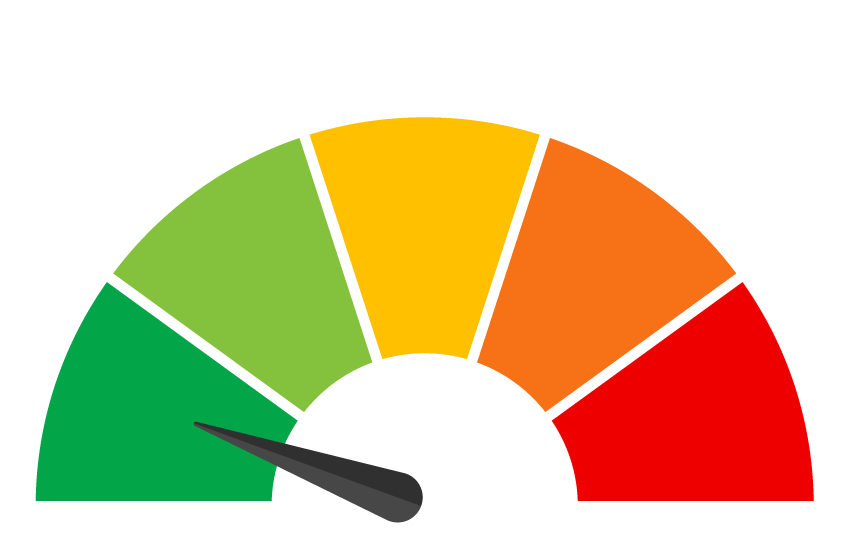
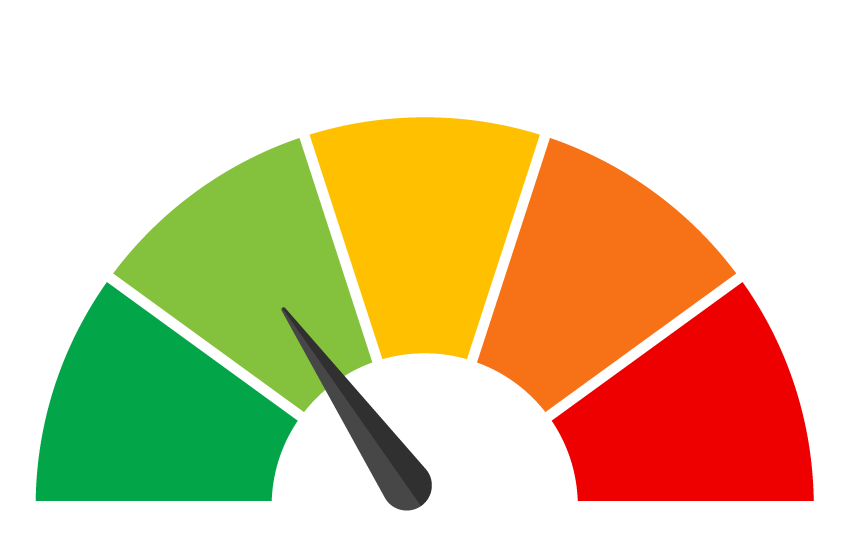
Adecuacion de semaforo de desempeño

Changed region(s): [[0.2188, 0.5543, 0.5, 0.9547]]

diff --git a/resources/views/productosSectoriales/admin_productos_sectoriales.blade.php b/resources/views/productosSectoriales/admin_productos_sectoriales.blade.php
@@ -1,3 +1,6 @@
+@php
+    use App\Models\SeguimientoMeta;
+@endphp
 @extends('layouts.administrador')
 @section('encabezado')
     Productos Sectoriales / Listado de Productos
@@ -170,12 +173,45 @@
                             <!-- Acciones futuras -->
                         </div>
                     </div>
-                    <!-- Card Body -->
+                    <!-- Card Body -->                    
                     <div class="card-body" id="indicadorContent">
                         <div style="text-align: right; padding:10px;">
                             <a href="{{ route('productossectoriales.detalleExelPS') }}"><button class="btn btn-success"><i
                                         class="fas fa-download"></i> Descargar Listado</button></a>
-                        </div>
+                            <div style="text-align:right;">
+                                <hr />
+                                <a style="cursor: pointer"><b>Simbología del semáforo de desempeño.</b></a>
+                                <div style="text-align:right;width:100%;">
+                                    <table align="right">
+                                        <tr>
+                                            <td style="padding: 5px;border: dashed 1px gray;text-align:center">
+                                                <img style="width:30px;" src="{{asset("/images/productos/sobresaliente.svg")}}">
+                                            </td>
+                                            <td style="padding: 5px;border: dashed 1px gray">Sobresaliente</td>                                       
+                                            <td style="padding: 5px;border: dashed 1px gray;text-align:center">        
+                                                <img style="width:30px;" src="{{asset("/images/productos/satisfactorio.svg")}}"></td>
+                                            <td style="padding: 5px;border: dashed 1px gray">Satisfactorio</td>
+                                            <td style="padding: 5px;border: dashed 1px gray;text-align:center">                                            
+                                                <img style="width:30px;" src="{{asset("/images/productos/regular.svg")}}">
+                                            </td>
+                                            <td style="padding: 5px;border: dashed 1px gray">Regular</td>
+                                            <td style="padding: 5px;border: dashed 1px gray;text-align:center">
+                                                <img style="width:30px;" src="{{asset("/images/productos/no_satisfactorio.svg")}}">                                            
+                                            </td>
+                                            <td style="padding: 5px;border: dashed 1px gray">No Satisfactorio</td>
+                                            <td style="padding: 5px;border: dashed 1px gray;text-align:center">
+                                                <img style="width:30px;" src="{{asset("/images/productos/no_atendido.svg")}}">                                            
+                                            </td>
+                                            <td style="padding: 5px;border: dashed 1px gray">No Atendido</td>
+                                            <td style="padding: 5px;border: dashed 1px gray;text-align:center">
+                                                <img style="width:30px;" src="{{asset("/images/productos/no_aplica.svg")}}">                                            
+                                            </td>
+                                            <td style="padding: 5px;border: dashed 1px gray">No Aplica</td>
+                                        </tr>
+                                    </table>
+                                </div>
+                            </div>
+                        </div>                        
                         <table class="table table-bordered table-striped" id="dataTableItar" width="100%" cellspacing="0"
                             style="color: black!important">
                             <thead style="background-color: #919090;color:white;">
@@ -184,6 +220,8 @@
                                     <th>Nombre del Producto</th>
                                     <th>Responsable</th>
                                     <th>Estatus</th>
+                                    <th>Desempeño 2023</th>
+                                    <th>Desempeño 2024</th>
                                     <th>Seguimiento</th>
                                     <th>Permisos</th>
                                     <th>Opciones</th>
@@ -213,7 +251,47 @@
                                                 <option value="revision" {{ $producto->estado_producto === 'revision' ? 'selected' : '' }}>En revisión</option>
                                             </select>
                                         </td>
-
+                                        <td>
+                                            @php
+                                                $meta2023 = SeguimientoMeta::where("idProducto",$producto->idProducto)->where("año",2023)->first();
+                                                if($meta2023 != null):                                                                                                       
+                                                    if($meta2023->valor_indicador <= 0 )
+                                                        $img2023 = "no_atendido.png";
+                                                    elseif ($meta2023->valor_indicador >= .1 && $meta2023->valor_indicador <= .60)
+                                                        $img2023 = "no_satisfactorio.png";
+                                                    elseif ($meta2023->valor_indicador >= .61 && $meta2023->valor_indicador <= .79)
+                                                        $img2023 = "regular.png";
+                                                    elseif ($meta2023->valor_indicador >= .80 && $meta2023->valor_indicador <= .90)
+                                                        $img2023 = "satisfactorio.png";
+                                                    else
+                                                        $img2023 = "sobresaliente.png";                                                
+                                                else:
+                                                    $img2023 = "no_aplica.svg";
+                                                endif;
+                                            @endphp
+                                            
+                                            <img style="width:50px;" src="{{asset("/images/productos/".$img2023)}}">
+                                        </td>
+                                        <td>
+                                            @php
+                                                $meta2024 = SeguimientoMeta::where("idProducto",$producto->idProducto)->where("año",2024)->first();
+                                                if($meta2024 != null):                                                                                                       
+                                                    if($meta2024->valor_indicador <= 0 )
+                                                        $img2024 = "no_atendido.png";
+                                                    elseif ($meta2024->valor_indicador >= .1 && $meta2024->valor_indicador <= .60)
+                                                        $img2024 = "no_satisfactorio.png";
+                                                    elseif ($meta2024->valor_indicador >= .61 && $meta2024->valor_indicador <= .79)
+                                                        $img2024 = "regular.png";
+                                                    elseif ($meta2024->valor_indicador >= .80 && $meta2024->valor_indicador <= .90)
+                                                        $img2024 = "satisfactorio.png";
+                                                    else
+                                                        $img2024 = "sobresaliente.png";                                                
+                                                else:
+                                                    $img2024 = "no_aplica.svg";
+                                                endif;
+                                            @endphp
+                                            <img style="width:50px;" src="{{asset("/images/productos/".$img2024)}}">
+                                        </td>
                                         <td>
                                             <button type="button"
                                                 class="btn btn-sm btn-outline-primary mt-2 d-flex align-items-center gap-1"

diff --git a/resources/views/productosSectoriales/productossectoriales.blade.php b/resources/views/productosSectoriales/productossectoriales.blade.php
@@ -1,3 +1,6 @@
+@php
+    use App\Models\SeguimientoMeta;
+@endphp
 @extends('layouts.administrador')
 
 @section('encabezado')
@@ -180,6 +183,39 @@
                     style="background-color: #681b2e;">
                     <h6 class="m-0 font-weight-bold text-primary" style="color:white !important">Productos Registrados</h6>
                 </div>
+                <div style="text-align:right;padding-right: 10px;">
+                    <hr />
+                    <a style="cursor: pointer"><b>Simbología del semáforo de desempeño.</b></a>
+                    <div style="text-align:right;width:100%;">
+                        <table align="right">
+                            <tr>
+                                <td style="padding: 5px;border: dashed 1px gray;text-align:center">
+                                    <img style="width:30px;" src="{{asset("/images/productos/sobresaliente.svg")}}">
+                                </td>
+                                <td style="padding: 5px;border: dashed 1px gray">Sobresaliente</td>                                       
+                                <td style="padding: 5px;border: dashed 1px gray;text-align:center">        
+                                    <img style="width:30px;" src="{{asset("/images/productos/satisfactorio.svg")}}"></td>
+                                <td style="padding: 5px;border: dashed 1px gray">Satisfactorio</td>
+                                <td style="padding: 5px;border: dashed 1px gray;text-align:center">                                            
+                                    <img style="width:30px;" src="{{asset("/images/productos/regular.svg")}}">
+                                </td>
+                                <td style="padding: 5px;border: dashed 1px gray">Regular</td>
+                                <td style="padding: 5px;border: dashed 1px gray;text-align:center">
+                                    <img style="width:30px;" src="{{asset("/images/productos/no_satisfactorio.svg")}}">                                            
+                                </td>
+                                <td style="padding: 5px;border: dashed 1px gray">No Satisfactorio</td>
+                                <td style="padding: 5px;border: dashed 1px gray;text-align:center">
+                                    <img style="width:30px;" src="{{asset("/images/productos/no_atendido.svg")}}">                                            
+                                </td>
+                                <td style="padding: 5px;border: dashed 1px gray">No Atendido</td>
+                                <td style="padding: 5px;border: dashed 1px gray;text-align:center">
+                                    <img style="width:30px;" src="{{asset("/images/productos/no_aplica.svg")}}">                                            
+                                </td>
+                                <td style="padding: 5px;border: dashed 1px gray">No Aplica</td>
+                            </tr>
+                        </table>
+                    </div>
+                </div>
                 <div class="card-body" id="indicadorContent">
                     <!-- Tabla de productos -->
 
@@ -201,7 +237,9 @@
                                         <th>Id</th>
                                         <th>Nombre del Producto</th>
                                         <th>Responsable</th>
-                                        <th>Estatus</th>
+                                        <th>Desempeño 2023</th>
+                                        <th>Desempeño 2024</th>
+                                        <th>Estatus</th>                                        
                                         <th>Opciones</th>
                                     </tr>
                                 </thead>
@@ -213,6 +251,47 @@
                                             <td style="vertical-align: middle">{{ $producto->producto }}</td>
                                             <td style="text-align: center; vertical-align: middle">
                                                 {{ $producto->dependenciaSiglas ?? 'Sin responsable' }}
+                                            </td>
+                                            <td style="vertical-align: middle;text-align:center">
+                                                @php
+                                                    $meta2023 = SeguimientoMeta::where("idProducto",$producto->idProducto)->where("año",2023)->first();
+                                                    if($meta2023 != null):                                                                                                       
+                                                        if($meta2023->valor_indicador <= 0 )
+                                                            $img2023 = "no_atendido.png";
+                                                        elseif ($meta2023->valor_indicador >= .1 && $meta2023->valor_indicador <= .60)
+                                                            $img2023 = "no_satisfactorio.png";
+                                                        elseif ($meta2023->valor_indicador >= .61 && $meta2023->valor_indicador <= .79)
+                                                            $img2023 = "regular.png";
+                                                        elseif ($meta2023->valor_indicador >= .80 && $meta2023->valor_indicador <= .90)
+                                                            $img2023 = "satisfactorio.png";
+                                                        else
+                                                            $img2023 = "sobresaliente.png";                                                
+                                                    else:
+                                                        $img2023 = "no_aplica.svg";
+                                                    endif;
+                                                @endphp
+                                                
+                                                <img style="width:50px;" src="{{asset("/images/productos/".$img2023)}}">
+                                            </td>
+                                            <td style="vertical-align: middle;text-align:center">
+                                                @php
+                                                    $meta2024 = SeguimientoMeta::where("idProducto",$producto->idProducto)->where("año",2024)->first();
+                                                    if($meta2024 != null):                                                                                                       
+                                                        if($meta2024->valor_indicador <= 0 )
+                                                            $img2024 = "no_atendido.png";
+                                                        elseif ($meta2024->valor_indicador >= .1 && $meta2024->valor_indicador <= .60)
+                                                            $img2024 = "no_satisfactorio.png";
+                                                        elseif ($meta2024->valor_indicador >= .61 && $meta2024->valor_indicador <= .79)
+                                                            $img2024 = "regular.png";
+                                                        elseif ($meta2024->valor_indicador >= .80 && $meta2024->valor_indicador <= .90)
+                                                            $img2024 = "satisfactorio.png";
+                                                        else
+                                                            $img2024 = "sobresaliente.png";                                                
+                                                    else:
+                                                        $img2024 = "no_aplica.svg";
+                                                    endif;
+                                                @endphp
+                                                <img style="width:50px;" src="{{asset("/images/productos/".$img2024)}}">
                                             </td>
                                             <td style="vertical-align: middle; text-align:center">
                                                 @if ($producto->estado_producto !== 'revision')

diff --git a/app/Http/Controllers/ProductoSectorialController.php b/app/Http/Controllers/ProductoSectorialController.php
@@ -1217,7 +1217,7 @@ class ProductoSectorialController extends Controller
                 'dependencia.dependenciaSiglas'
             )
             ->get();
-
+            
         return view('productosSectoriales.admin_productos_sectoriales', [
             'productos' => $productos,
             'dependencias' => Dependencia::all(),
